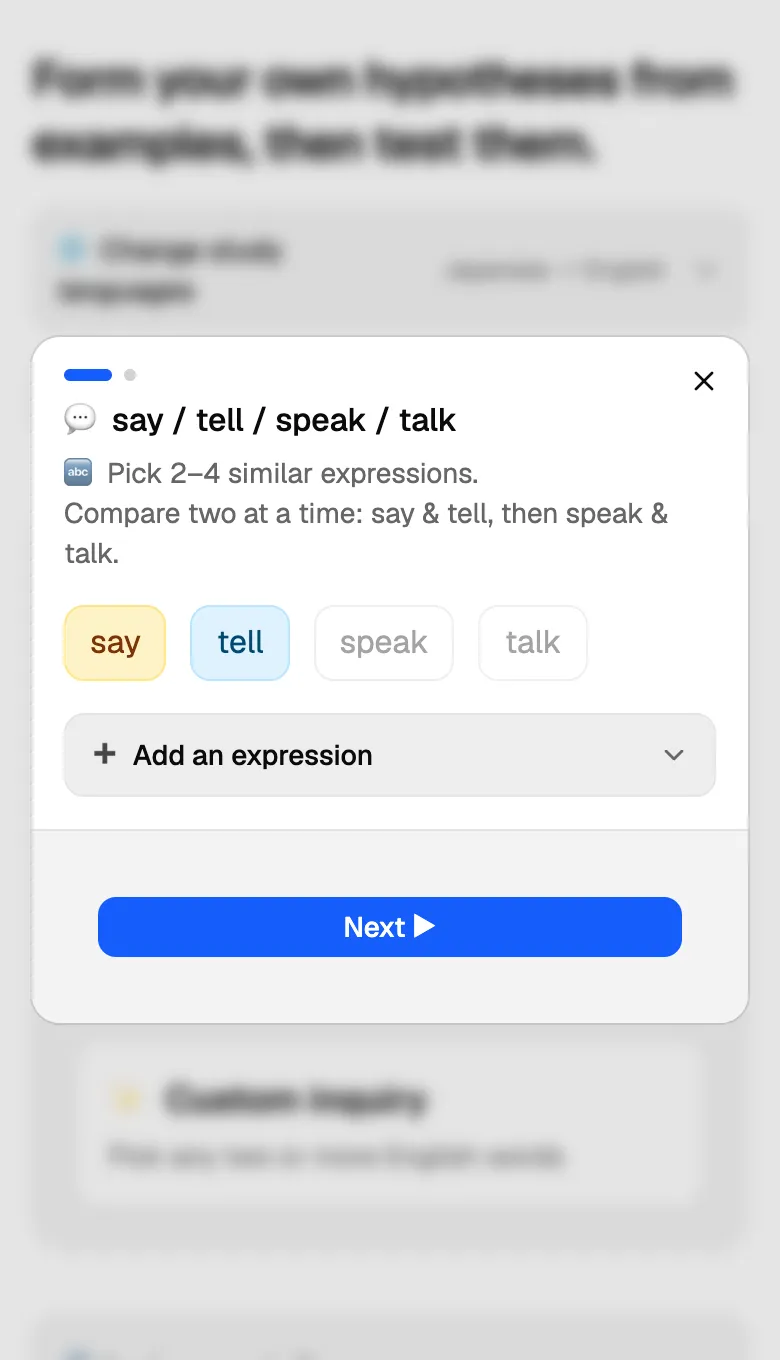
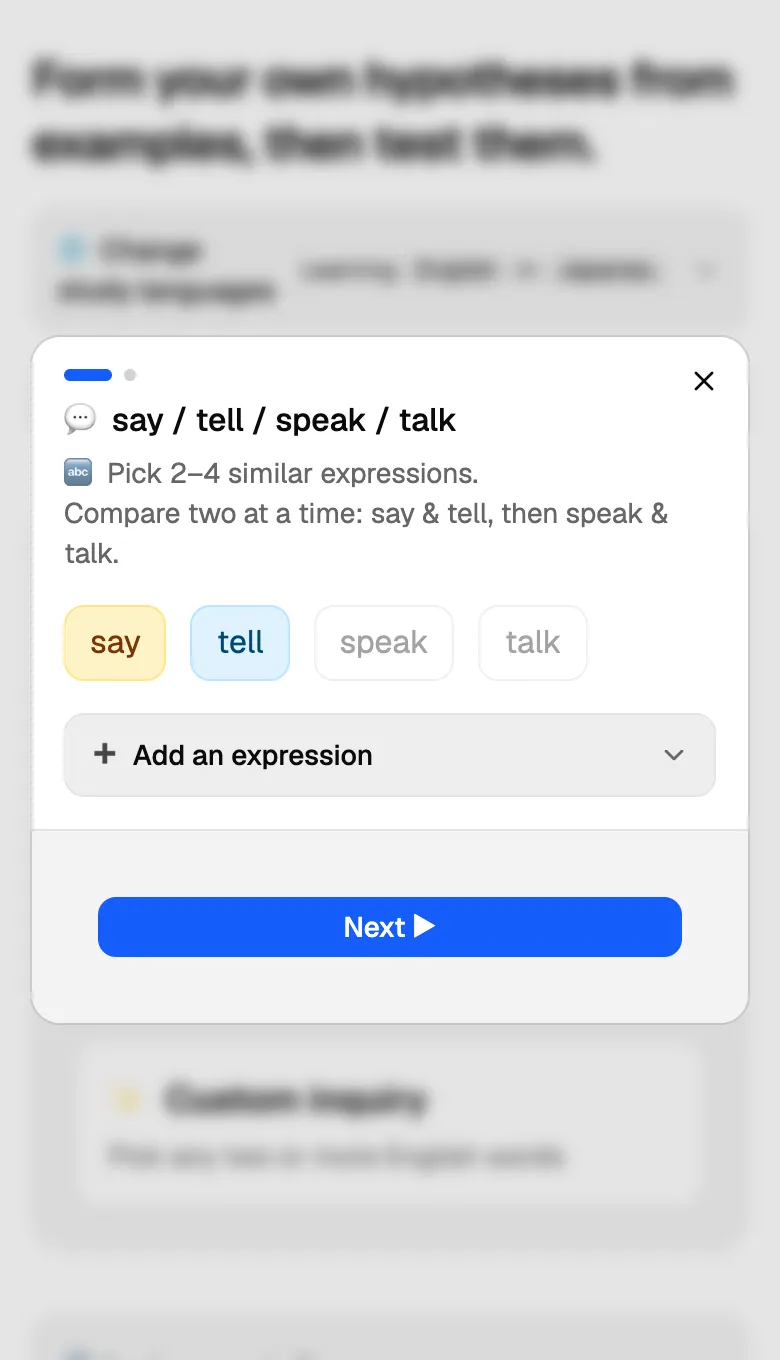
学習する言語を変更するの折りたたみ表示を読みやすくする (#41)
* 「学習する言語を変更する」の折りたたみ表示を読みやすくする

文字色を薄いグレーから通常の文字色に変え、「日本語で英語を学習する」の
ように文章として読める形にし、言語名をプルダウンの選択値のような見た目
(角丸枠+グレー背景)にする。

* 長い言語ペアでもヒントが崩れないよう、折りたたみ行にmax-widthを足す

レビューで、狭い画面で言語名が長いペア (例: インドネシア語↔ベトナム語) を
選ぶと、フレックス行のヒント側が縮まず、ラベル側が1文字幅まで潰れて縦に
伸びてしまう不具合を見つけた。ヒントに max-w-[55%] を付け、必ず truncate
されるようにする。

あわせて、ヘルプのスクリーンショット照合が文言変更で落ちたため撮り直す。

---------

Changed region(s): [[0.2462, 0.1544, 0.6154, 0.2471], [0.7077, 0.1853, 0.8, 0.2162]]

diff --git a/src/pages/Home.tsx b/src/pages/Home.tsx
@@ -33,6 +33,11 @@ function groupProgress(g: CourseGroup, inquiries: Inquiry[], l1: string, l2: str
   return { latest: remaining.length === 0 ? own[0] : undefined, started: own.length > 0, remaining, covered };
 }
 
+/** A language name shown like a picked dropdown value, in the "🌐 学習する言語を変更する" hint. */
+function LangPill({ children }: { children: ReactNode }) {
+  return <span className="rounded-md border bg-muted px-1.5 py-0.5">{children}</span>;
+}
+
 /** A card in the course row: a course group, or free inquiry. */
 function EntryCard({ recommended, onClick, children }: { recommended: boolean; onClick: () => void; children: ReactNode }) {
   return (
@@ -112,7 +117,22 @@ export function Home() {
       <section className="mb-8">
         <h1 className="text-2xl font-semibold tracking-tight">{t({ ja: "例文から自分で仮説を立てて、確かめる。", en: "Form your own hypotheses from examples, then test them." })}</h1>
         <div className="mt-4 grid items-start gap-3 sm:grid-cols-2">
-          <Disclosure label={t({ ja: "🌐 学習する言語を変更する", en: "🌐 Change study languages" })} hint={`${languageName(defaultL1, uiLang)} → ${languageName(defaultL2, uiLang)}`}>
+          <Disclosure
+            label={t({ ja: "🌐 学習する言語を変更する", en: "🌐 Change study languages" })}
+            hint={
+              <span className="text-foreground">
+                {uiLang === "ja" ? (
+                  <>
+                    <LangPill>{languageName(defaultL1, uiLang)}</LangPill>で<LangPill>{languageName(defaultL2, uiLang)}</LangPill>を学習する
+                  </>
+                ) : (
+                  <>
+                    Learning <LangPill>{languageName(defaultL2, uiLang)}</LangPill> in <LangPill>{languageName(defaultL1, uiLang)}</LangPill>
+                  </>
+                )}
+              </span>
+            }
+          >
             <LanguageFields />
           </Disclosure>
           <Disclosure label={t({ ja: "📖 このアプリについて", en: "📖 About this app" })}>

diff --git a/src/components/ui/disclosure.tsx b/src/components/ui/disclosure.tsx
@@ -28,7 +28,8 @@ export function Disclosure({
     <Collapsible defaultOpen={defaultOpen} className={cn("rounded-lg border bg-card", className)}>
       <CollapsibleTrigger className="group flex w-full items-center gap-3 rounded-lg px-3 py-2.5 text-left text-sm font-medium hover:bg-muted/50">
         <span className="flex-1">{label}</span>
-        {hint && <span className="truncate text-xs font-normal text-muted-foreground">{hint}</span>}
+        {/* capped so a long hint can never crowd the label into wrapping one character per line */}
+        {hint && <span className="max-w-[55%] truncate text-xs font-normal text-muted-foreground">{hint}</span>}
         <ChevronDown className="size-4 shrink-0 text-muted-foreground transition-transform group-data-panel-open:rotate-180" />
       </CollapsibleTrigger>
       <CollapsibleContent className={cn("px-3 pt-1 pb-3", contentClassName)}>{children}</CollapsibleContent>
